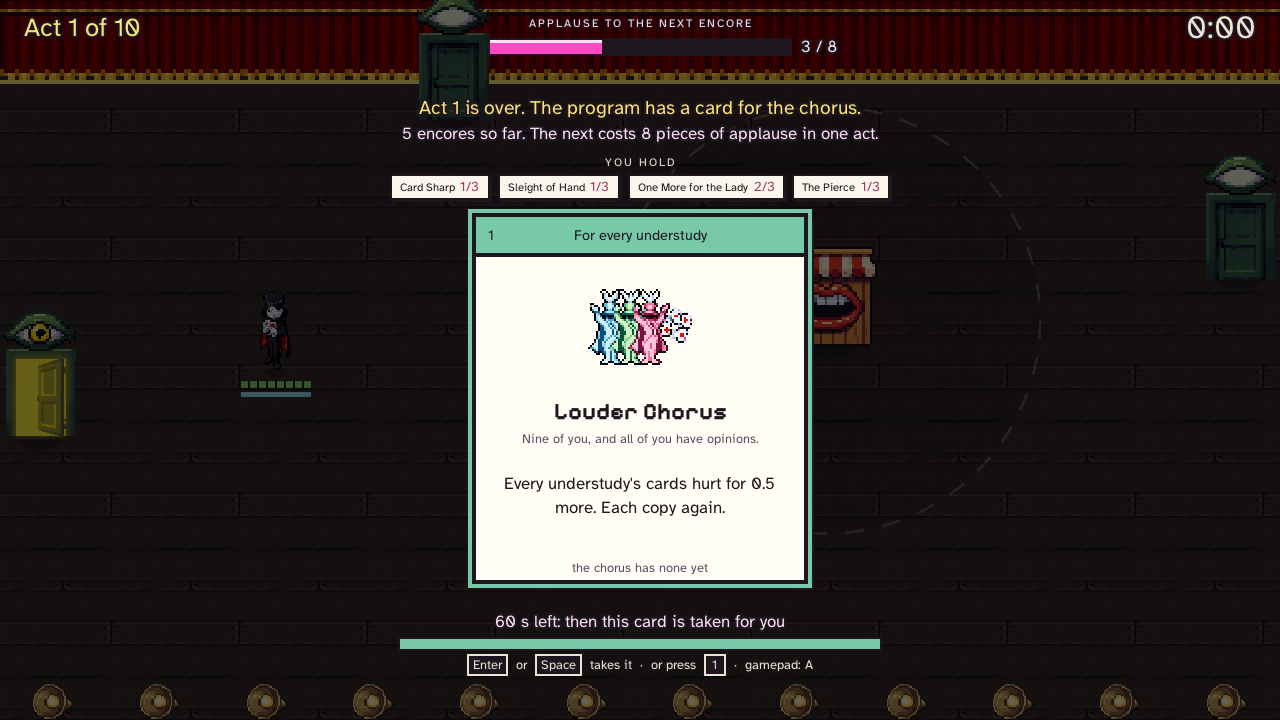
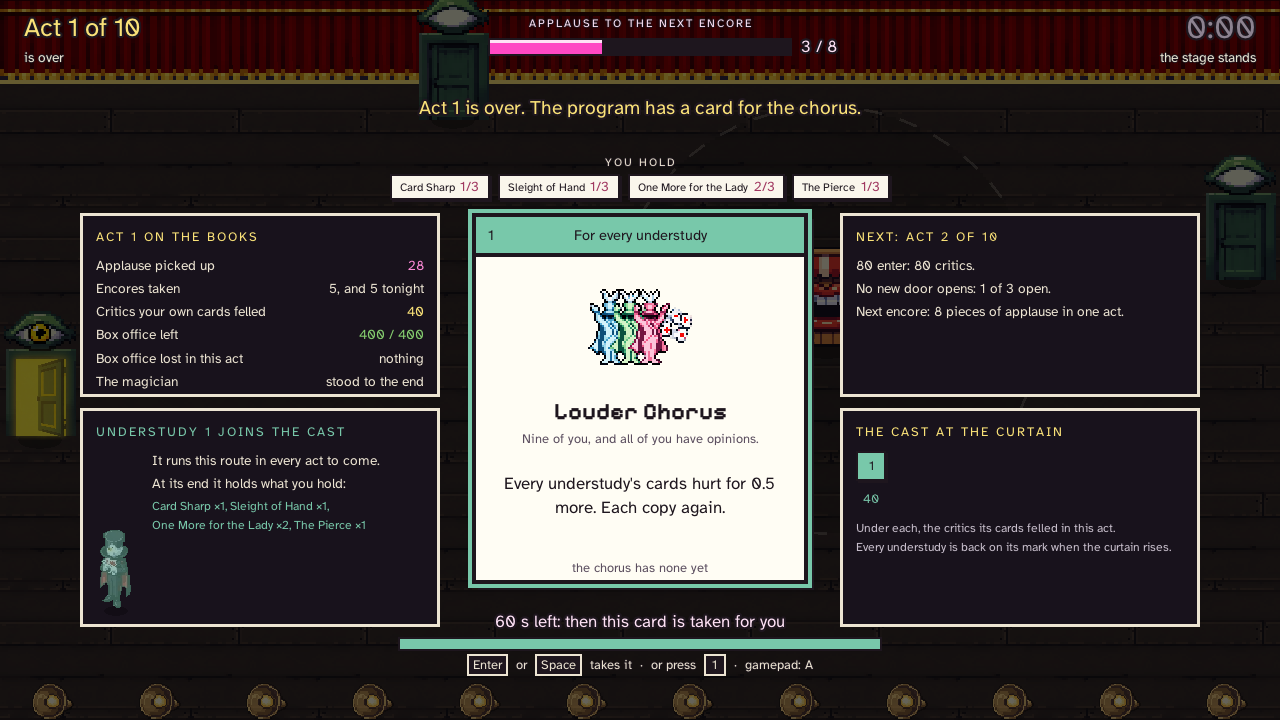
T50: the frames: 4560 taken again, 9120 (between two acts) and 41040 (the last program) added, in both sets
Claude-Session: https://claude.ai/code/session_01V4qXWgB4bHFXePzLiSUbYT

diff --git a/README.md b/README.md
@@ -43,7 +43,7 @@ Every number of the rules is in `tuning.json` at the repository root. The game r
 
 To look at a frame without playing, the game can play by itself for a number of ticks (60 a second), save the frame it ends on and exit. It is played by the doors player of the guard (the same file the tests use): it goes out to the newest door, picks up its applause and takes every encore's card and the program's by the players' one order. The capture's seed is one the guard plays, and on the committed numbers its performance reaches the ovation; the guard lets four seeds of twenty lose, so if a retuning makes this one lose, the capture is given a seed that wins. A card takes none of a capture's ticks, and the next act is gone on to at once; the ticks of every act's curtain are counted with the rest, sixty before each act, so on the committed numbers act n begins on tick 4560 × (n − 1).
 
-The console is told the tick each encore, each program, the ovation or the closed stage is reached on (`Capture: Encore in act 1 on tick 410`), and a capture that ends on such a tick shows that screen. On the committed numbers: the first encore is on tick 410, with The Pierce among its three cards; 4560 is the first act's program, with its chorus card under the four chips of what is held; 4575 is in the second act's curtain, with the first understudy on its way back under its caption; 12000 is the third act, with the magician at the second door; 19512 is the fifth, the magician at the second door with a fall's splash in the doorway, and rival's understudies at the first door; 23415 is an encore in the sixth that has only two cards to offer, Quick Smoke and Long Arm, since the magician holds three of the others: their chips are gold in the row over the cards, Long Arm's foot says "you have 2 of 3", and its sentence does not say "Each copy again", for it would be the third (the frame shows the screen as it opens, with its leftmost card lit, and not the card the player then takes); 29000 is the seventh act, with the understudies holding the first and the second door and the magician at the third; 39570 is the ninth act, with a headliner, the red cut-out with the red bar under its feet, at the second door, a third of its bar gone, and rival's understudies at the first; 44000 is the tenth, with two headliners at the first door beside the first two understudies, who cannot fell them; and 45600 is the ovation, on an empty stage. Those are the frames of `art/frames/`, each 1280 × 720, the size the window opens at, with the walking figures as large against the stage as they have been (`FiguresMeasure` in `UnderstudiesGame.cs` is 1). `art/frames/s2-design/` has the same ten ticks with the figures at the design's size, 1.6 times that, to be laid beside them: set `FiguresMeasure` to `1.6f`, build, and capture; that one line is all that differs. A late act's crowd is on 39570 and 44000, at the doors; on 39570 something has just fallen beside the box office, which is as near as a frame comes to an enemy at it: the doors player fells nearly everything before it gets there. The ticks above move whenever a number or a rule moves what the doors player does: run a long capture and read the console for the new ones.
+The console is told the tick each encore, each program, the ovation or the closed stage is reached on (`Capture: Encore in act 1 on tick 410`), and a capture that ends on such a tick shows that screen. On the committed numbers: the first encore is on tick 410, with The Pierce among its three cards; 4560 is the first act's program, with its chorus card under the four chips of what is held and between the four panels of the act that is over; 4575 is in the second act's curtain, with the first understudy on its way back under its caption; 9120 is the stage between two acts, after a second act that had no encore and so no program: the panels with the stage's middle between them, and the key that raises the curtain at the foot; 12000 is the third act, with the magician at the second door; 19512 is the fifth, the magician at the second door with a fall's splash in the doorway, and rival's understudies at the first door; 23415 is an encore in the sixth that has only two cards to offer, Quick Smoke and Long Arm, since the magician holds three of the others: their chips are gold in the row over the cards, Long Arm's foot says "you have 2 of 3", and its sentence does not say "Each copy again", for it would be the third (the frame shows the screen as it opens, with its leftmost card lit, and not the card the player then takes); 29000 is the seventh act, with the understudies holding the first and the second door and the magician at the third; 39570 is the ninth act, with a headliner, the red cut-out with the red bar under its feet, at the second door, a third of its bar gone, and rival's understudies at the first; 41040 is the ninth act's program, the last of the show: nine squares on the cast's panel with what each one's cards felled, the understudy that joins with all eight self cards, and the tenth act's 2560 in four kinds; 44000 is the tenth, with two headliners at the first door beside the first two understudies, who cannot fell them; and 45600 is the ovation, on an empty stage. Those are the frames of `art/frames/`, each 1280 × 720, the size the window opens at, with the walking figures as large against the stage as they have been (`FiguresMeasure` in `UnderstudiesGame.cs` is 1). `art/frames/s2-design/` has the same ticks with the figures at the design's size, 1.6 times that, to be laid beside them: set `FiguresMeasure` to `1.6f`, build, and capture; that one line is all that differs. A late act's crowd is on 39570 and 44000, at the doors; on 39570 something has just fallen beside the box office, which is as near as a frame comes to an enemy at it: the doors player fells nearly everything before it gets there. The ticks above move whenever a number or a rule moves what the doors player does: run a long capture and read the console for the new ones.
 
     dotnet run --project src/Understudies.Game -- --capture /tmp/frame.png --ticks 39570
 
